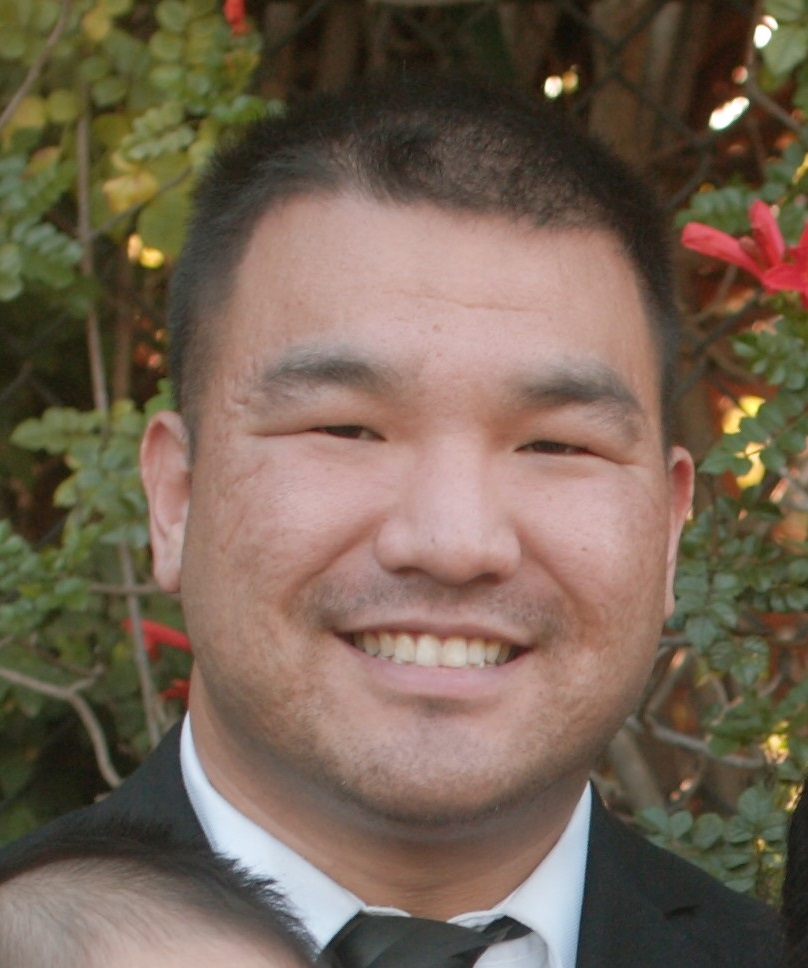
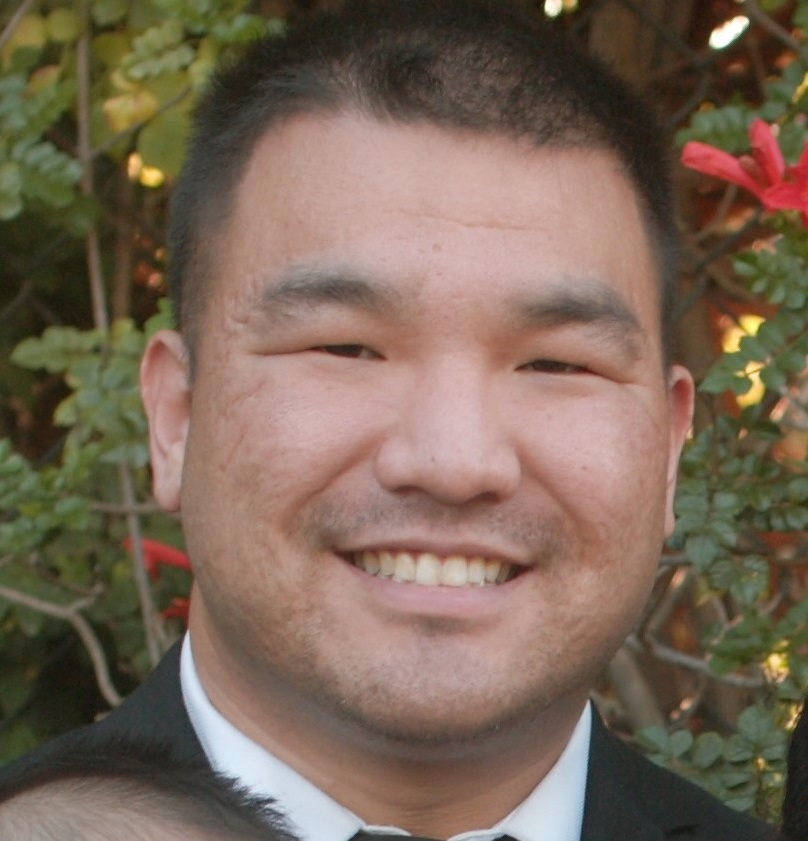
added hover effects

diff --git a/portfolio.html b/portfolio.html
@@ -25,33 +25,33 @@
                 </div>
                 <div>
                     <div class="toprow">
-                        <div class="project-set proj1">
+                        <div class="project-set proj1 defaultproj">
                         <img src="assets\images\portfolio1.jpg" width="240" height="160" alt="project 1">
                         <div class="project-name">Hangman</div>
                         </div>
                         </div>
                     
-                        <div class="project-set proj2">
+                        <div class="project-set proj2 defaultproj">
                         <img src="assets\images\portfolio2.jpg" width="240" height="160" alt="project 2">
                         <div class="project-name">RPG Game</div>
                         </div>
                     
                     <br>
                     <div class="midrow">
-                            <div class="project-set proj3">
+                            <div class="project-set proj3 defaultproj">
                             <img src="assets\images\portfolio3.jpg" width="240" height="160" alt="project 3">
                             <div class="project-name">Trivia Game</div>
                             </div>
                             
                         
-                            <div class="project-set proj4">
+                            <div class="project-set proj4 defaultproj">
                             <img src="assets\images\portfolio4.jpg" width="240" height="160" alt="project 4">
                             <div class="project-name">Rutgers Info Game</div>
                             </div>
                         </div>
                     <br>
                     <div class="bottomrow">
-                            <div class="project-set proj5">
+                            <div class="project-set proj5 defaultproj">
                             <img src="assets\images\portfolio5.jpg" width="240" height="160" alt="project 5">
                             <div class="project-name">Rock Paper Scissors</div>
                             </div>

diff --git a/index.html b/index.html
@@ -25,7 +25,7 @@
                         <h2>About Me</h2>
                 </div>
                     <br>    
-                    <p> <img class="mypic" src= "assets\images\ThomasKim.jpg" alt="picture of me" width=150 style="padding-right:15px"/> Full-Stack Developer proficient in the latest dev tools, including React.js, MongoDB, Express, Node, MySQL, AJAX, Bootstrap...etc. I like keeping up to date with the latest technologies and utilizing it to create websites that stand out from all the cookie-cutter sites cluttering the web.</p>
+                    <p> <img class="mypic" src= "assets\images\ThomasKim.jpg" alt="picture of me" width=175 height=175 style="padding-right:15px"/> Full-Stack Developer proficient in the latest dev tools, including React.js, MongoDB, Express, Node, MySQL, AJAX, Bootstrap...etc. I like keeping up to date with the latest technologies and utilizing it to create websites that stand out from all the cookie-cutter sites cluttering the web.</p>
                     <br>
                     <p>Let me take your vision and bring it to life with a beautiful yet functional site built with clean semantic code. Websites should not just be eyecandy, following the latest trends, but about communicating your brand and philosophy effectively. It should give a strong sense of who you are and what you are about. That's my philosophy and why I do what I do.</p> 
             </div>
